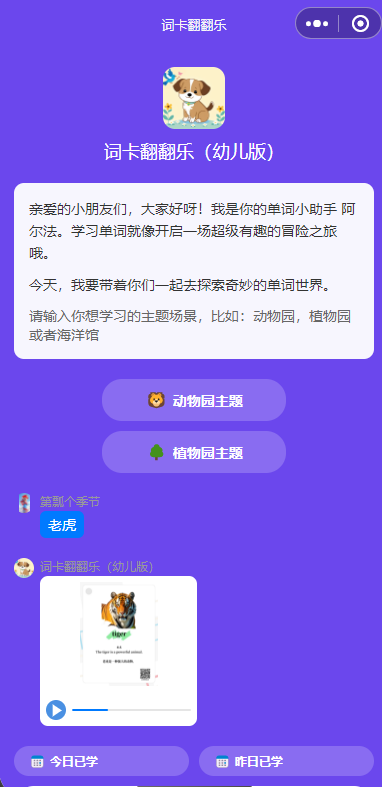
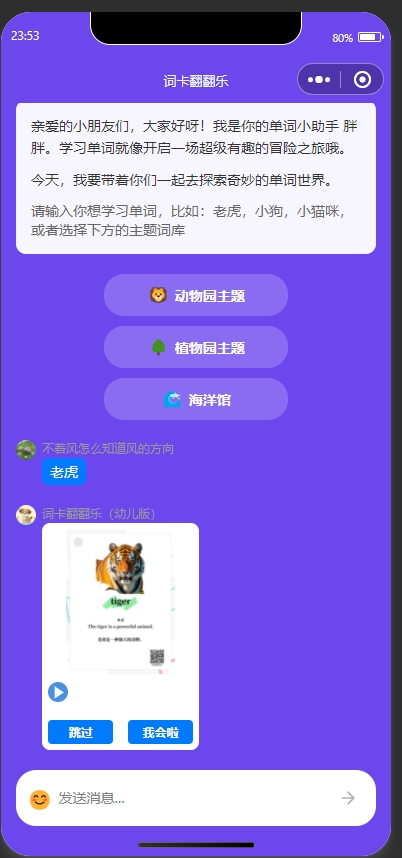
优化代码和样式

diff --git a/pages/english-learning/index.js b/pages/english-learning/index.js
@@ -2,7 +2,7 @@
 const { token } = require('./config.js');
 // 配置开关和模拟数据
 const CONFIG = {
-  USE_REAL_API: true, // 控制是否使用真实API的开关
+  USE_REAL_API: false, // 控制是否使用真实API的开关
   MOCK_DELAY: 500,
   // 使用条件编译
   API_TOKEN: token
@@ -26,14 +26,14 @@ const MOCK_RESPONSES = {
     msg: "Success",
     token: 730
   },
-  '7433005944232214579': { // 主题选择的 workflow
-    code: 0,
-    cost: "0",
-    data: '{"content_type":1,"data":"{\"topic\":\"动物园主题\",\"vocabulary_list\":[\"lion\",\"tiger\",\"elephant\",\"giraffe\",\"zebra\",\"monkey\",\"bear\",\"fox\",\"deer\",\"rabbit\"]}","original_result":null,"type_for_model":2}',
-    debug_url: "https://www.coze.cn/work_flow?execute_id=7433719181394100251&space_id=7432929629691789346&workflow_id=7433005944232214579",
-    msg: "Success",
-    token: 913
-  }
+  '7433005944232214579': {
+    "code": 0,
+    "cost": "0",
+    "data": "{\"content_type\":1,\"data\":\"{\\\"topic\\\":\\\"动物园主题\\\",\\\"vocabulary_list\\\":[\\\"zebra\\\",\\\"giraffe\\\",\\\"lion\\\",\\\"tiger\\\",\\\"elephant\\\",\\\"monkey\\\",\\\"bear\\\",\\\"fox\\\",\\\"deer\\\",\\\"rabbit\\\"]}\",\"original_result\":null,\"type_for_model\":2}",
+    "debug_url": "https://www.coze.cn/work_flow?execute_id=7433825898807607333\u0026space_id=7432929629691789346\u0026workflow_id=7433005944232214579",
+    "msg": "Success",
+    "token": 913
+}
 };
 
 Page({
